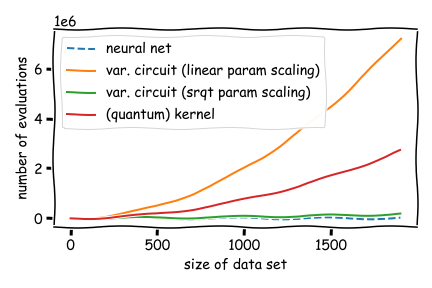
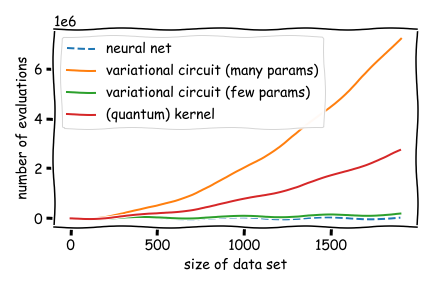
more polishing

Changed region(s): [[0.2708, 0.125, 0.7523, 0.3438], [0.7523, 0.2812, 0.7824, 0.3438]]

diff --git a/demonstrations/tutorial_kernel_based_training.py b/demonstrations/tutorial_kernel_based_training.py
@@ -22,18 +22,21 @@ approach <https://pennylane.ai/qml/glossary/variational_circuit.html>`__.
 The theoretical background has been established in many papers in the literature 
 such as `Havlicek et al. (2018) <https://arxiv.org/abs/1804.11326>`__, `Schuld and Killoran (2018) <https://arxiv.org/abs/1803.07128>`__,
 `Liu et al. (2020) <https://arxiv.org/abs/2010.02174>`__, `Huang et al. (2020) <https://arxiv.org/pdf/2011.01938.pdf>`__,
-and has been summarised in the overview `Schuld (2021) <https://arxiv.org/abs/2101.11020>`__ which we follow here.
+and has been systematically summarised in the overview `Schuld (2021) <https://arxiv.org/abs/2101.11020>`__ which we follow here.
 
 As an example of kernel-based training we use a combination of PennyLane
 and the powerful `scikit-learn <https://scikit-learn.org/>`__ machine
-learning library to combine a support vector machine with 
+learning library to use a support vector machine with 
 a "quantum kernel". We then compare this strategy with a variational
 quantum circuit trained via stochastic gradient descent using
 PyTorch.
 
-The goal of the demo is to estimate the circuit evaluations needed in
+A secondary goal of the demo is to estimate the circuit evaluations needed in
 both approaches. We will see that while kernel-based training famously scales much worse than 
-neural networks, is has a better scaling than variational circuits!  
+neural networks, comparing it with variational training depends on how many parameters the variational 
+ansatz requires as the data size grows. If variational circuit scale like neural networks and require 
+many parameters, kernel-based training is a lot more efficient. Only if variational circuits can work with relatively 
+few parameters compared to the training set size, it can outperform the square scaling of kernel-based training.  
 
 .. figure::  ../demonstrations/kernel_based_training/scaling.png 
        :align: center
@@ -46,33 +49,37 @@ neural networks, is has a better scaling than variational circuits!
 # Background
 # ==========
 #
-# The main practical consequence of approaching quantum machine learning with a 
-# kernel approach is that instead of training a quantum machine learning
-# model of the form
+# Let us consider a "quantum model" of the form
 #
-# .. math:: f(x) = \langle \phi(x) | \mathcal{M} | \phi(x)\rangle
+# .. math:: f(x) = \langle \phi(x) | \mathcal{M} | \phi(x)\rangle,
 #
-# we can often train a classical kernel method with a kernel executed on a
-# quantum device. This “quantum kernel"
-# is given by the mutual overlap of two data-encoding quantum states,
-#
-# .. math::  \kappa(x, x') = | \langle \phi(x') | \phi(x)\rangle|^2.
-#
-# Here, :math:`| \phi(x)\rangle` is prepared
+# where :math:`| \phi(x)\rangle` is prepared
 # by a fixed `embedding
-# circuit <https://pennylane.readthedocs.io/en/stable/introduction/templates.html#intro-ref-temp-emb>`__,
-# and :math:`\mathcal{M}` an arbitrary observable. The observable can
+# circuit <https://pennylane.readthedocs.io/en/stable/introduction/templates.html#intro-ref-temp-emb>`__ that 
+# encodes data inputs :math:`x`,
+# and :math:`\mathcal{M}` is an arbitrary observable. This model includes variational 
+# quantum machine learning models, since the observable can
 # effectively be implemented by a simple measurement that is preceded by a
-# quantum circuit. If the circuit is trainable, the measurement becomes
+# variational circuit. 
+#
+# .. figure:: ../demonstrations/kernel_based_training/quantum_model.png 
+#       :align: center
+#       :scale: 30%
+#       :alt: quantum-model
+#
+# If the circuit is trainable, the measurement becomes
 # trainable. For example, applying a circuit :math:`B(\theta)` and then
 # measuring the PauliZ observable :math:`\sigma^0_z` of the first qubit
 # implements the effective measurement observable
 # :math:`\mathcal{M}(\theta) = B^{\dagger}(\theta) \sigma^0_z B(\theta)`.
 #
-# .. figure:: ../demonstrations/kernel_based_training/quantum_model.png 
-#       :align: center
-#       :scale: 20%
-#       :alt: quantum-model
+# The main practical consequence of approaching quantum machine learning with a 
+# kernel approach is that instead of training $f$ variationally,
+# we can often train a classical kernel method with a kernel executed on a
+# quantum device. This “quantum kernel"
+# is given by the mutual overlap of two data-encoding quantum states,
+#
+# .. math::  \kappa(x, x') = | \langle \phi(x') | \phi(x)\rangle|^2.
 #
 # Kernel-based training therefore by-passes the variational part and
 # measurement of common variational circuits, and only depends on the
@@ -82,11 +89,13 @@ neural networks, is has a better scaling than variational circuits!
 #
 #    More precisely, we can replace variational training with kernel-based training if the optimisation
 #    problem can be written as minimising a cost of the form
-#    $$f_{\rm trained} = \min_f  \lambda \mathrm{tr}\{\mathcal{M^2\} + \frac{1}{M}\sum_{m=1}^M L(f(x^m), y^m),$$ 
-#    which is a regularised empirical risk of training data samples $(x^m, y^m)_{m=1\dots M}$ and loss function $L$.
+
+#    .. math:: f_{\rm trained} = \min_f  \lambda \mathrm{tr}\{\mathcal{M^2\} + \frac{1}{M}\sum_{m=1}^M L(f(x^m), y^m),
+ 
+#    which is a regularised empirical risk of training data samples:math:`(x^m, y^m)_{m=1\dots M}` and loss function :math:`L`.
 #
 # If the loss function in training is the `hinge
-# loss <https://en.wikipedia.org/wiki/Hinge_loss>`__ the kernel method
+# loss <https://en.wikipedia.org/wiki/Hinge_loss>`__, the kernel method
 # corresponds to a standard `support vector
 # machine <https://en.wikipedia.org/wiki/Support-vector_machine>`__ (SVM)
 # in the sense of a maximum-margin classifier. Other convex loss functions
@@ -95,12 +104,11 @@ neural networks, is has a better scaling than variational circuits!
 # .. warning::
 #
 #    Theory predicts that kernel-based training will always find better or equally good
-#    models $f_{\rm trained}$ for the optimisation problem stated above. However, to show this here we would have
-#    to either regularise the variational training by a term $\mathrm{tr}\{\mathcal{M^2\}$, or switch off
-#    regularisation in the classical SVM, which denies the SVM a lot of its strength.
-#
-#    The kernel-based and variational training in this demonstration therefore optimize slightly different cost
-#    functions, and it is out of our scope to establish whether one training method finds better minimum than
+#    models :math:`f_{\rm trained}` for the optimisation problem stated above. However, to show this here we would have
+#    to either regularise the variational training by a term :math:`\mathrm{tr}\{\mathcal{M^2\}`, or switch off
+#    regularisation in the classical SVM, which denies the SVM a lot of its strength. The kernel-based and the variational 
+#    training in this demonstration therefore optimize slightly different cost
+#    functions, and it is out of our scope to establish whether one training method finds a better minimum than
 #    the other.
 #
 
@@ -138,7 +146,7 @@ np.random.seed(42)
 # The second step is to make an artificial toy data set.
 #
 
-X, y = make_blobs(n_samples=150, n_features=3, centers=2, cluster_std=0.7)
+X, y = make_blobs(n_samples=150, n_features=3, centers=2, cluster_std=1.5)
 
 # scaling the inputs is important since the embedding we use is periodic
 scaler = StandardScaler().fit(X)
@@ -167,8 +175,8 @@ n_qubits = len(X_train[0])
 # overlap with a small routine called a SWAP test.
 #
 # However, we need only half the number of qubits if we prepare
-# :math:`| \phi(x)\rangle` and then apply an inverse state preparation
-# using :math:`x'` on the same qubits. We then measure the projector onto
+# :math:`| \phi(x)\rangle` and then apply the inverse embedding
+# with :math:`x'` on the same qubits. We then measure the projector onto
 # the initial state :math:`|0\rangle \langle 0|`.
 #
 # .. figure:: ../demonstrations/kernel_based_training/kernel_circuit.png 
@@ -186,7 +194,7 @@ n_qubits = len(X_train[0])
 # .. code:: python
 #
 #    observables = [qml.PauliZ(i) for i in range(n_qubits)]
-#    Tensor(*observables)
+#    projector = Tensor(*observables)
 #
 # Altogether, we use the following quantum node as a “quantum kernel
 # evaluator”:
@@ -195,7 +203,6 @@ n_qubits = len(X_train[0])
 dev_kernel = qml.device("default.qubit", wires=n_qubits)
 
 observables = [qml.PauliZ(i) for i in range(n_qubits)]
-
 
 @qml.qnode(dev_kernel)
 def kernel(x1, x2):
@@ -235,8 +242,7 @@ def kernel_matrix(A, B):
 # Training the SVM is a breeze in scikit-learn:
 #
 
-svm = SVC(kernel=kernel_matrix)
-svm.fit(X_train, y_train);
+svm = SVC(kernel=kernel_matrix).fit(X_train, y_train)
 
 
 ######################################################################
@@ -261,14 +267,19 @@ dev_kernel.num_executions
 # SVM needs to evaluate the kernel at most :math:`M_{\rm pred}M` times to get the
 # pairwise distances between training vectors and test samples.
 #
+# .. note:: 
+#    
+#     Depending on the implementation of the SVM, only :math:`S \leq M_{\rm pred}`
+#     *support vectors* are needed. 
+#
 # Overall, the number of kernel evaluations of the above script should
-# therefore roughly amount to:
+# therefore roughly amount to at most:
 #
 
 
 def circuit_evals_kernel(n_data, split):
     """
-    Compute how many circuit evaluations one needs for kernel-based training.
+    Compute how many circuit evaluations one needs for kernel-based training and prediction.
     """
 
     M = int(np.ceil(0.75 * n_data))
@@ -311,7 +322,6 @@ def quantum_model(x, params):
     """
     A variational circuit approximation of the quantum model.
     """
-
     # embedding
     AngleEmbedding(x, wires=range(n_qubits))
 
@@ -341,7 +351,7 @@ def hinge_loss(predictions, targets):
 
 ######################################################################
 # We now summarise the usual training and prediction steps into two
-# functions that we can later call at will. Most of these functions
+# functions that we can later call at will. Most of the work is to
 # convert between numpy and torch, which we need for the differentiable
 # ``relu`` function used in the hinge loss.
 #
@@ -436,8 +446,8 @@ dev_var.num_executions
 ######################################################################
 # Let’s do another calculation: In each optimisation step, the variational
 # circuit needs to compute the partial derivative of all :math:`K`
-# trainable parameters for each sample in a batch. Using parameter-shift
-# rules (which is necessary for hardware), we require roughly 2 circuit
+# trainable parameters for each sample in a batch. Using `parameter-shift
+# rules <https://pennylane.ai/qml/glossary/parameter_shift.html>`__ we require roughly 2 circuit
 # evaluations per partial derivative. Prediction uses only one circuit
 # evaluation per sample.
 #
@@ -447,7 +457,7 @@ dev_var.num_executions
 
 def circuit_evals_variational(n_data, n_params, n_steps, evals_per_derivative, split,  batch_size):
     """
-    Compute how many circuit evaluations are needed for variational training.
+    Compute how many circuit evaluations are needed for variational training and prediction.
     """
 
     M = int(np.ceil(0.75 * n_data))
@@ -477,7 +487,7 @@ circuit_evals_variational(
 
 def model_evals_nn(n_data, n_params, n_steps, split,  batch_size):
     """
-    Compute how many model evaluations are needed for neural network training.
+    Compute how many model evaluations are needed for neural network training and prediction.
     """
 
     M = int(np.ceil(0.75 * n_data))
@@ -489,12 +499,12 @@ def model_evals_nn(n_data, n_params, n_steps, split,  batch_size):
     return n_training + n_prediction
     
 ######################################################################
-# In each step of neural network training and due to the power of automatic differentiation, 
+# In each step of neural network training, due to the power of automatic differentiation 
 # the backpropagation algorithm can compute a 
 # gradient for all parameters in (more-or-less) a single run. 
-# For all we know as of now, the no-cloning principle prevents variational circuits to use these tricks, 
-# which leads to `n_training` in `circuit_evals_variational` depend on the number of parameters, but not in 
-# `model_evals_nn`. 
+# For all we know at this stage, the no-cloning principle prevents variational circuits to use these tricks, 
+# which leads to ``n_training`` in ``circuit_evals_variational`` depend on the number of parameters, but not in 
+# ``model_evals_nn``. 
 #
 # For the same example as used here, a neural network would therefore 
 # have much fewer model evaluations:
@@ -525,17 +535,17 @@ model_evals_nn(
 #
 # 1. Even if we use single-batch stochastic gradient descent, in which every training step uses 
 #    exactly one training sample, we would want to see every training sample at least once on average. 
-#    Therefore, the **number of steps should scale linearly with the number of training data**. 
+#    Therefore, the number of steps should scale linearly with the number of training data. 
 #
 # 2. Modern neural networks often have many more parameters than training
 #    samples. But we do not know yet whether variational circuits really need that many parameters as well.
 #    We will therefore use two cases for comparison: 
 #
-#         a) the number of parameters grows linearly with the training data, or `n_params = M`, 
+#    a) the number of parameters grows linearly with the training data, or ``n_params = M``, 
 #
-#         b) the number of parameters grows as the square root with the training data, or `n_params = np.sqrt(M)` 
+#    b) the number of parameters grows as the square root with the training data, or ``n_params = np.sqrt(M)``. 
 #
-# Note that compared to the example above with 112 training samples and 18 parameters, a) overestimates the scaling, while b) 
+# Note that compared to the example above with 112 training samples and 18 parameters, a) overestimates the number of evaluations, while b) 
 # underestimates it.
 #
 
@@ -588,12 +598,12 @@ plt.show()
 # If variational circuits turn out to be as parameter-hungry as neural networks,
 # kernel-based training will consistently outperform it. 
 # However, if we find ways to train variational circuits with few parameters,
-# they can catch up with the good scaling neural networks get from backpropagation.   
+# they can catch up with the good scaling neural networks draw from backpropagation.   
 #
 # However, fault-tolerant quantum computers may change the picture significantly. 
 # As mentioned in `Schuld (2021) <https://arxiv.org/abs/2101.11020>`__, 
 # early results from the quantum machine learning literature show that
 # larger quantum computers enable us in principle to reduce
 # the quadratic scaling of kernel methods to linear scaling, which may make kernel methods a
-# serious alternative to neural networks for big data processing one day.
+# serious alternative to neural networks (and of course variational circuits) for big data processing one day.
 #
